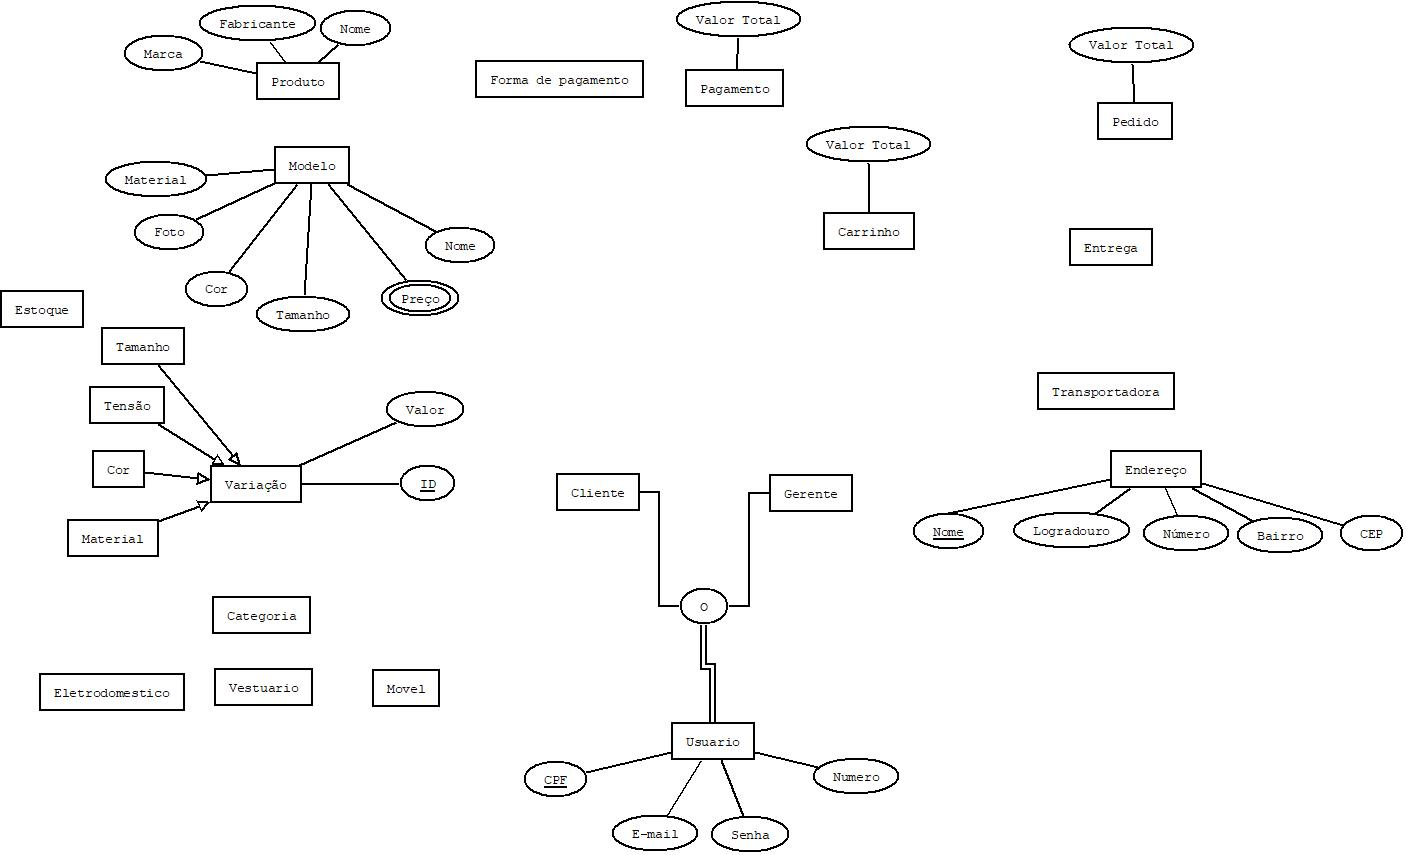
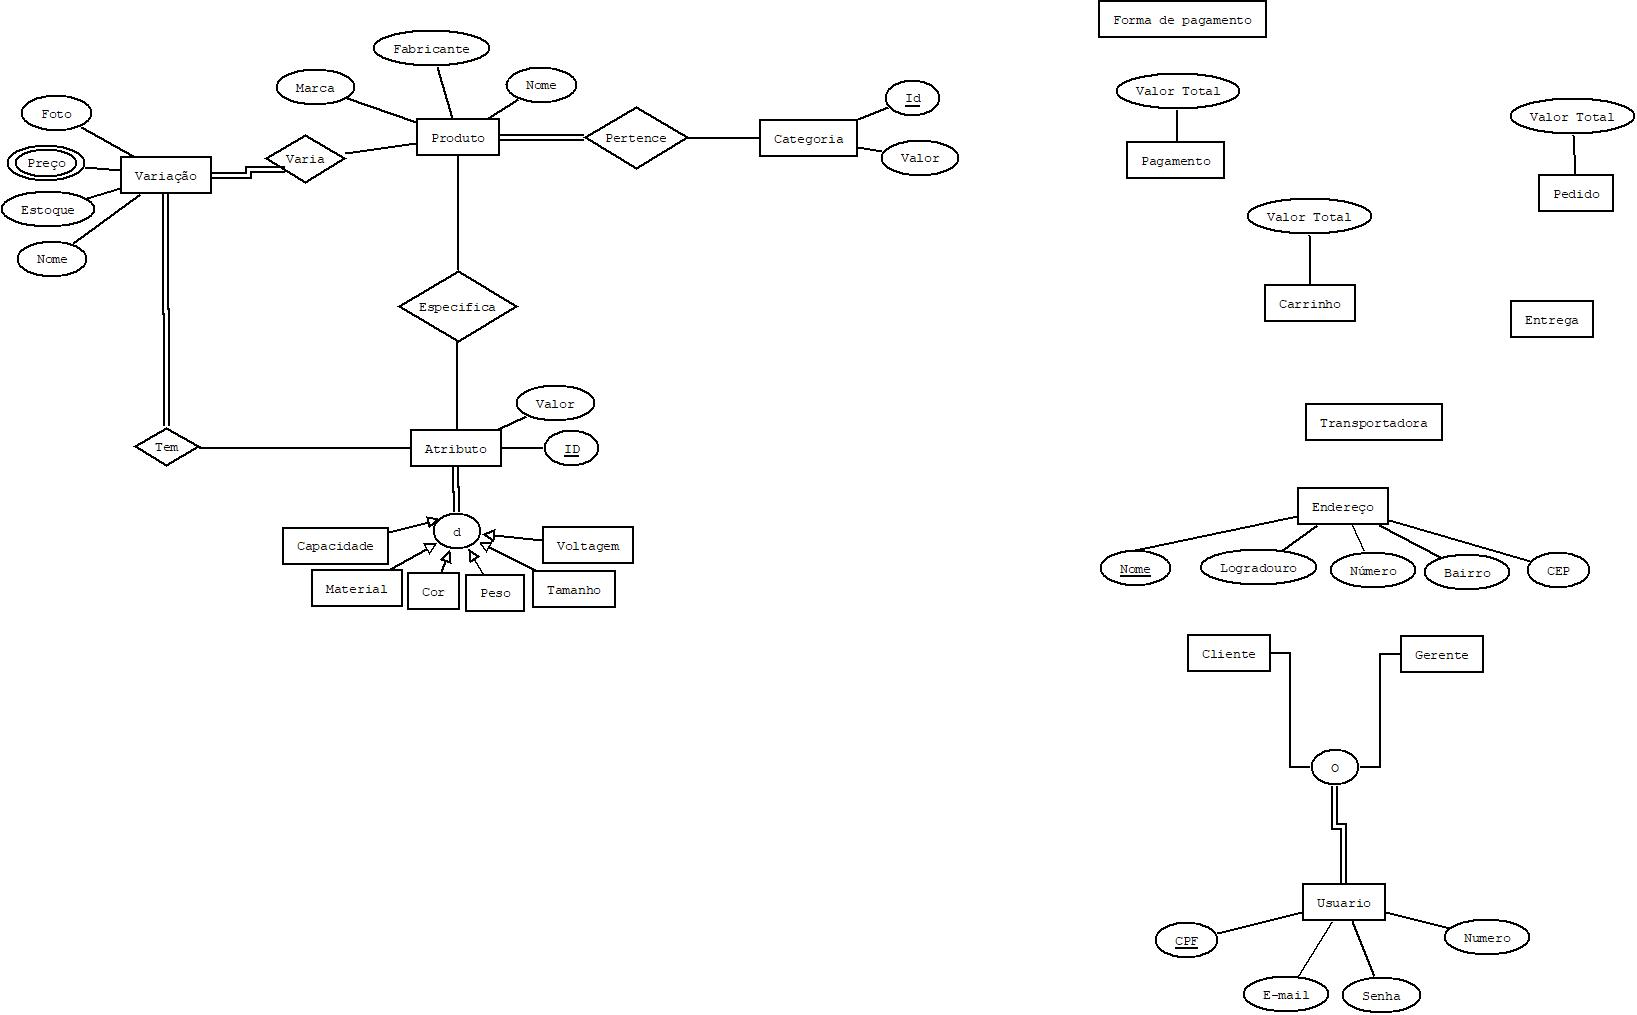
v2.1

diff --git a/README.md b/README.md
@@ -16,4 +16,5 @@ Este repositório está na fase inicial do projeto e contém a modelagem ER/EER 
 | Versão | Data       | Descrição                                     |
 |--------|------------|-----------------------------------------------|
 | v2     | 2026-03-25 | Inclusão da imagem da modelagem e versionamento |
+| v2.1   | 2026-03-26 | Adicionado variação e atributo de produto, assumindo categoria como uma única entidade |
 
